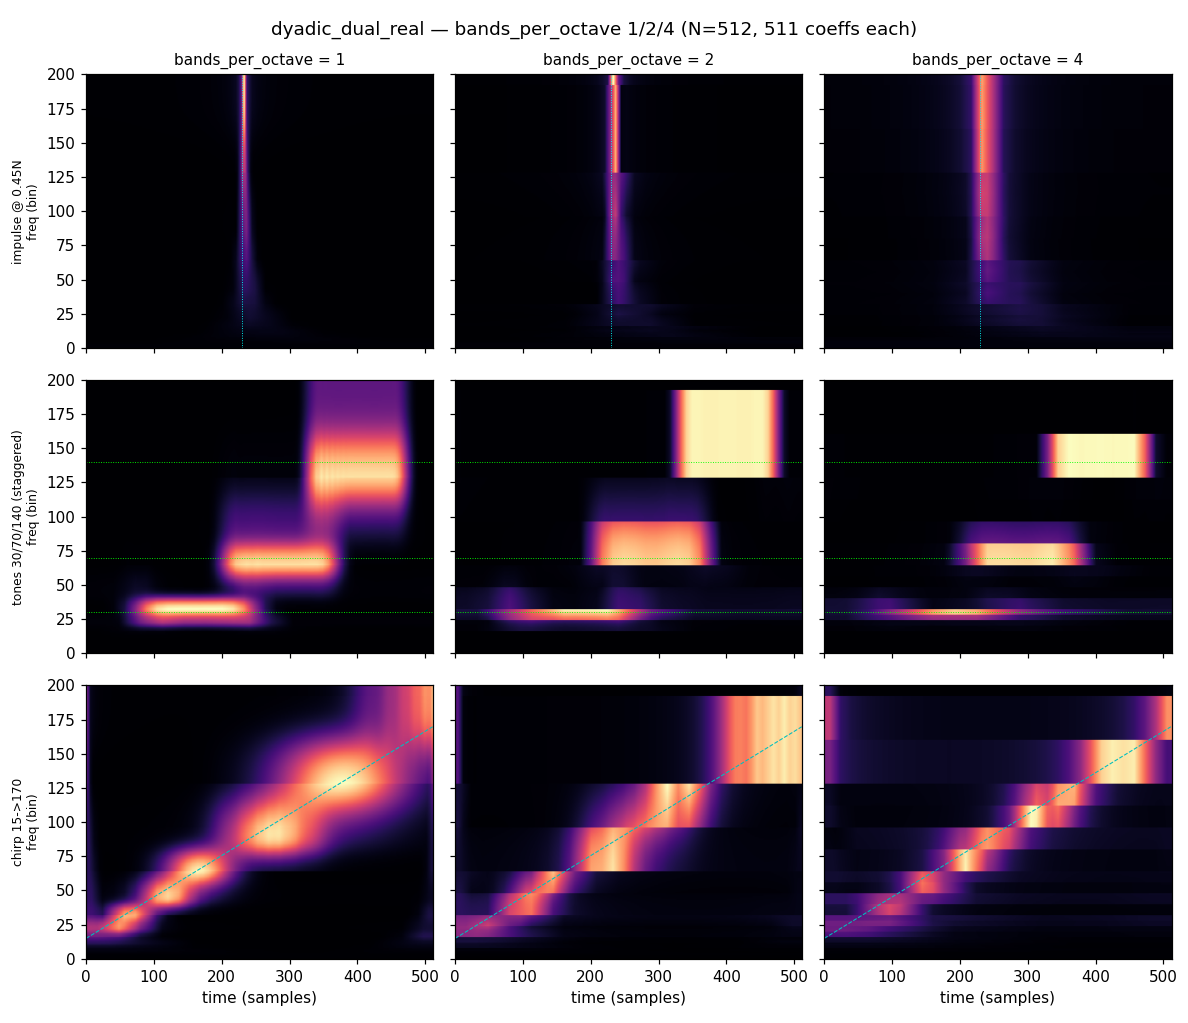
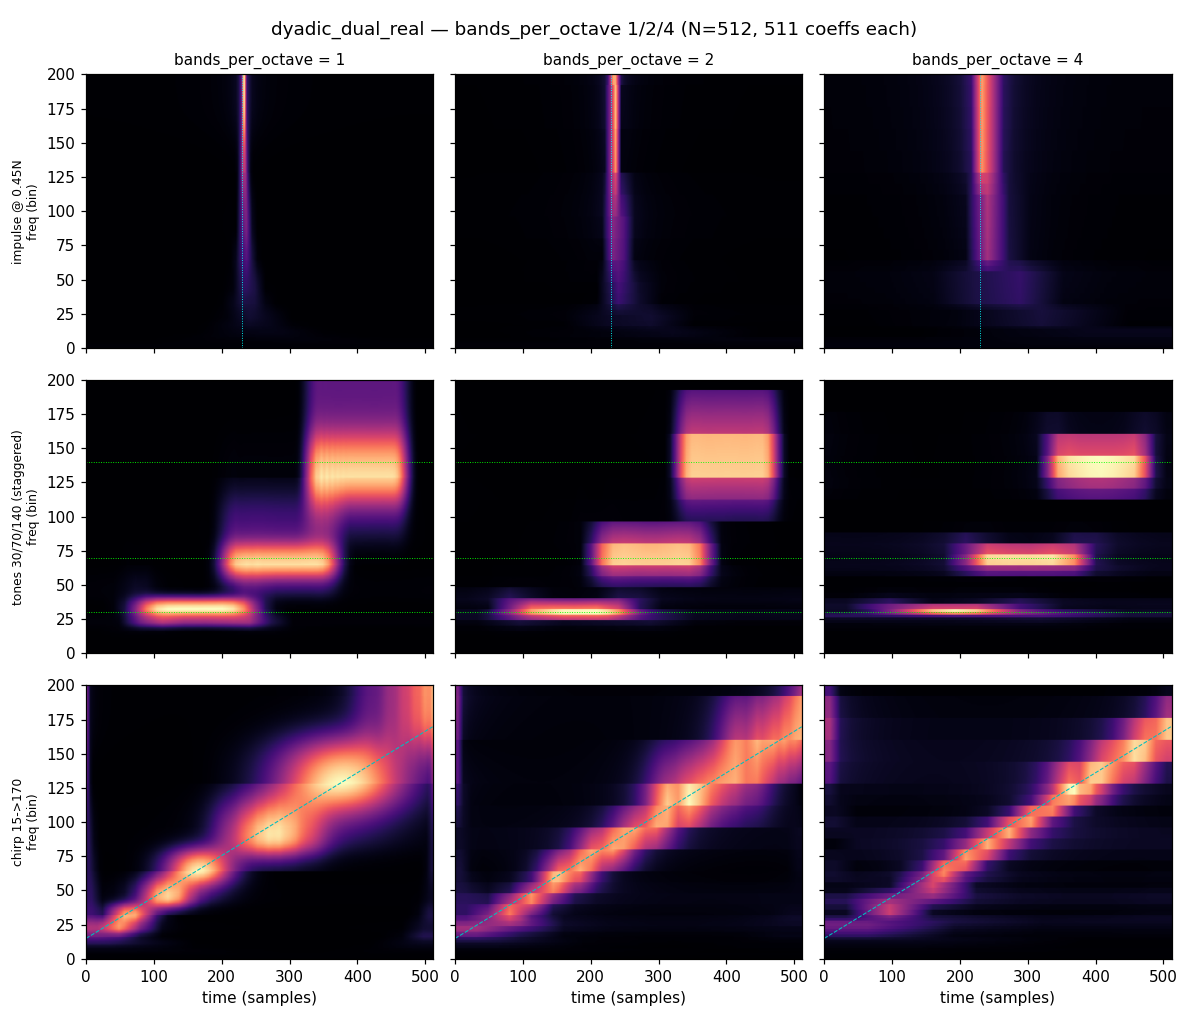
fix: tiling B for bpo > 1

diff --git a/crates/gaussogram-core/tests/schemes.rs b/crates/gaussogram-core/tests/schemes.rs
@@ -224,6 +224,45 @@ fn bpo_real_worked_example_n64() {
 }
 
 #[test]
+fn dual_tiling_b_stays_offset_from_a() {
+    // The dead-zone cover must be offset by half a sub-band: no tiling-B band may
+    // coincide with a tiling-A band, and every B centre must sit on a tiling-A
+    // join (an A edge). Coincident bands would defeat the dead-zone fill and
+    // render as flat blocks instead of localising a join tone.
+    use std::collections::HashSet;
+    for &bpo in &[1usize, 2, 4, 8] {
+        for k in 5..=12 {
+            let n = 1usize << k;
+            let s = dyadic_dual_real_with(n, WindowKind::Gaussian, false, bpo).unwrap();
+            let a_len = n / 2 + 1;
+            let mut a_bands: HashSet<(usize, usize)> = HashSet::new();
+            let mut a_edges: HashSet<usize> = HashSet::new();
+            let mut b_bands: Vec<(usize, usize)> = Vec::new();
+            for band in &s.bands {
+                if band.out_off < a_len {
+                    a_bands.insert((band.src_lo, band.src_hi));
+                    a_edges.insert(band.src_lo);
+                    a_edges.insert(band.src_hi);
+                } else {
+                    b_bands.push((band.src_lo, band.src_hi));
+                }
+            }
+            for &(lo, hi) in &b_bands {
+                assert!(
+                    !a_bands.contains(&(lo, hi)),
+                    "N={n} bpo={bpo}: B band [{lo},{hi}) coincides with an A band"
+                );
+                let centre = lo + (hi - lo) / 2;
+                assert!(
+                    a_edges.contains(&centre),
+                    "N={n} bpo={bpo}: B band [{lo},{hi}) centre {centre} is not on an A join"
+                );
+            }
+        }
+    }
+}
+
+#[test]
 fn rejects_non_power_of_two_bpo() {
     assert_eq!(
         dyadic_real_with(256, WindowKind::Gaussian, 3).unwrap_err(),

diff --git a/crates/gaussogram-core/src/scheme.rs b/crates/gaussogram-core/src/scheme.rs
@@ -209,14 +209,23 @@ pub fn dyadic_dual_real_with(
         top.nyquist_flat_top = true;
     }
 
-    // Tiling B: for each interior octave join b in {2,4,...,N/4}, the offset
-    // region [b/2, 3b/2) (width b, centred on the join) is subdivided into
-    // min(bands_per_octave, b) equal sub-bands, matching tiling A's density.
+    // Tiling B: the dead-zone cover, offset by HALF A SUB-BAND from tiling A so
+    // each B band is centred on a tiling-A *join* (the weak point), never on an
+    // A sub-band. For octave [b, 2b) (b in {2,4,...,N/4}) with `k` sub-bands of
+    // width `s = b/k`, band m spans [b + m*s - s/2, b + m*s + s/2) — i.e. A's
+    // sub-band grid shifted down by s/2 — so its centre falls on join b + m*s.
+    // `k = min(bpo, b/2)` keeps the half-sub-band shift s/2 an integer (it needs
+    // 2k | b). At bpo=1 this is the single band [b/2, 3b/2) centred on join b.
     let mut out_off: usize = bands.iter().map(Band::width).sum();
     let mut b = 2usize;
     while b <= n / 4 {
-        for (lo, hi) in split_pow2(b / 2, 3 * b / 2, bands_per_octave) {
-            let w = make_window(kind, n, lo, hi - lo);
+        let k = bands_per_octave.min(b / 2).max(1);
+        let s = b / k;
+        for m in 0..k {
+            let centre = b + m * s;
+            let lo = centre - s / 2;
+            let hi = centre + s / 2;
+            let w = make_window(kind, n, lo, hi - lo); // fcentre = lo + s/2 = centre
             windows.push(w);
             bands.push(Band {
                 src_lo: lo,

diff --git a/reports/bands_per_octave.md b/reports/bands_per_octave.md
@@ -38,10 +38,17 @@ count. Concretely, for `dyadic_dual_real` (N=512) the bands redistribute but the
 | `bpo` | n_bands | band @bin96: `df` (bins) | `dt` (samples) |
 |---:|---:|---:|---:|
 | 1 | 16 | 64 | 8 |
-| 2 | 30 | 32 | 16 |
-| 4 | 54 | 16 | 32 |
+| 2 | 29 | 32 | 16 |
+| 4 | 51 | 16 | 32 |
 
 Frequency extent halves and time extent doubles at each step, in lockstep.
+
+The dual scheme's tiling B (the dead-zone cover) is subdivided in lockstep with
+tiling A but kept **offset by half a sub-band**, so each B band centres on a
+tiling-A *join* (the weak point) rather than coinciding with an A sub-band. That
+offset is what lets a tone falling between two band centres be triangulated into a
+focused peak at every `bands_per_octave` (a naive subdivision that let B and A
+coincide would instead render such a tone as a flat block).
 
 ---
 
